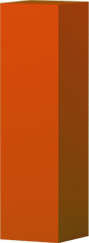
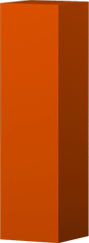
Fix stand color + Products higher in mobile view + Quantity move up in tablet view

diff --git a/assets/style/main.css b/assets/style/main.css
@@ -331,8 +331,8 @@ body {
 @media (max-width: 767px) {
     #discount-badges {
         bottom: auto;
-        top: 73px;
-        transform: translateX(65px);
+        top: 53px;
+        transform: translateX(55px);
         font-size: 9px;
         height: 76px;
         width: 58px;
@@ -1834,6 +1834,11 @@ body {
 }
 
 @media (max-width: 767px) {
+    
+    #products {
+        min-height: 420px;
+    }
+    
     #products .product .product-display:before,
     #products .product .product-display:after {
         -webkit-background-size: cover;
@@ -2581,13 +2586,13 @@ body {
 }
 
 @media (max-width: 1023px) {
+    /*
     #products .quantity {
         width: 100%;
         display: block;
         margin-top: 33px;
         background-color: #fff;
         padding: 0 7px;
-        /*        margin-bottom: 10px;*/
     }
     #products .presales .quantity {
         margin-bottom: 10px;
@@ -2602,6 +2607,7 @@ body {
         padding: 0;
         border-radius: 50%;
     }
+*/
 }
 
 @media (max-width: 767px) {
@@ -2610,6 +2616,28 @@ body {
         width: 125px;
         text-align: left;
     }
+    
+     #products .quantity {
+        width: 100%;
+        display: block;
+        margin-top: 33px;
+        background-color: #fff;
+        padding: 0 7px;
+    }
+    #products .presales .quantity {
+        margin-bottom: 10px;
+    }
+    #products .quantity .ctrl {
+        display: inline-block;
+        height: 28px;
+        width: 28px;
+        line-height: 28px;
+        vertical-align: middle;
+        text-align: center;
+        padding: 0;
+        border-radius: 50%;
+    }
+    
     #products .quantity .label {
         display: none;
     }
